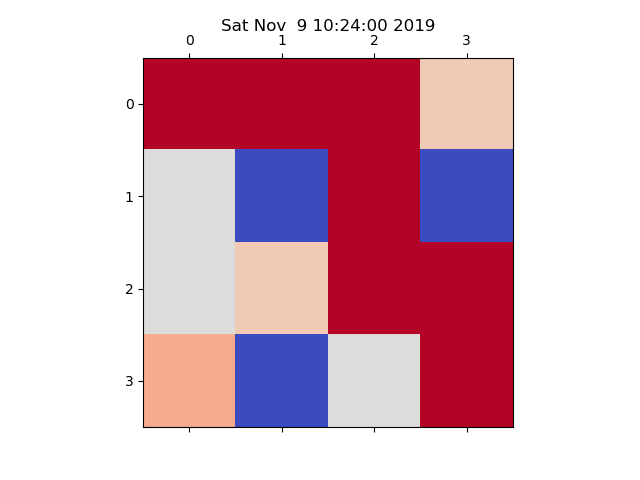
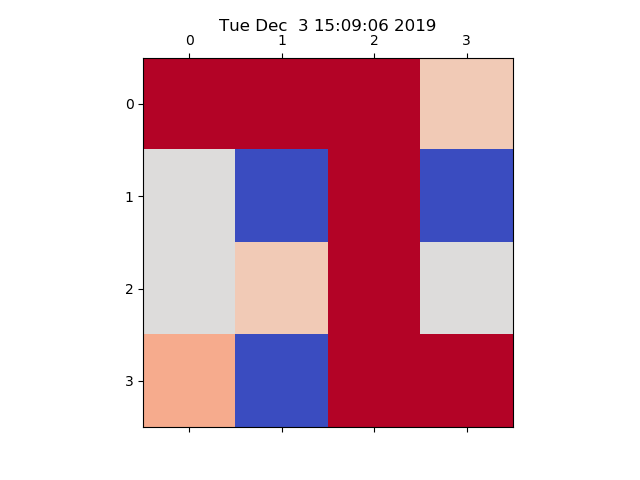
fixed pa4

Changed region(s): [[0.5, 0.5, 0.8125, 0.9062], [0.3438, 0.0312, 0.6875, 0.0625]]

diff --git a/PA4/Q_learning.py b/PA4/Q_learning.py
@@ -50,14 +50,15 @@ class Environment:
         """
 
         done = False
-        next_state = json.loads(state)
+        current_state = json.loads(state)
         state_shift = self.action_map[action]
 
-        next_state = np.array(next_state) + np.array(state_shift)
+        next_state = np.array(current_state) + np.array(state_shift)
         next_state = next_state.tolist()
 
-        reward = self.reward[next_state[0], next_state[1]]
-        self.reward[next_state[0], next_state[1]] = 0
+        # fixed reward set adviced by Jiaxin Lin
+        reward = self.reward[current_state[0], current_state[1]]
+        self.reward[current_state[0], current_state[1]] = 0
         next_state = json.dumps(next_state)
 
         # fixed condition adviced by Shi Mao
